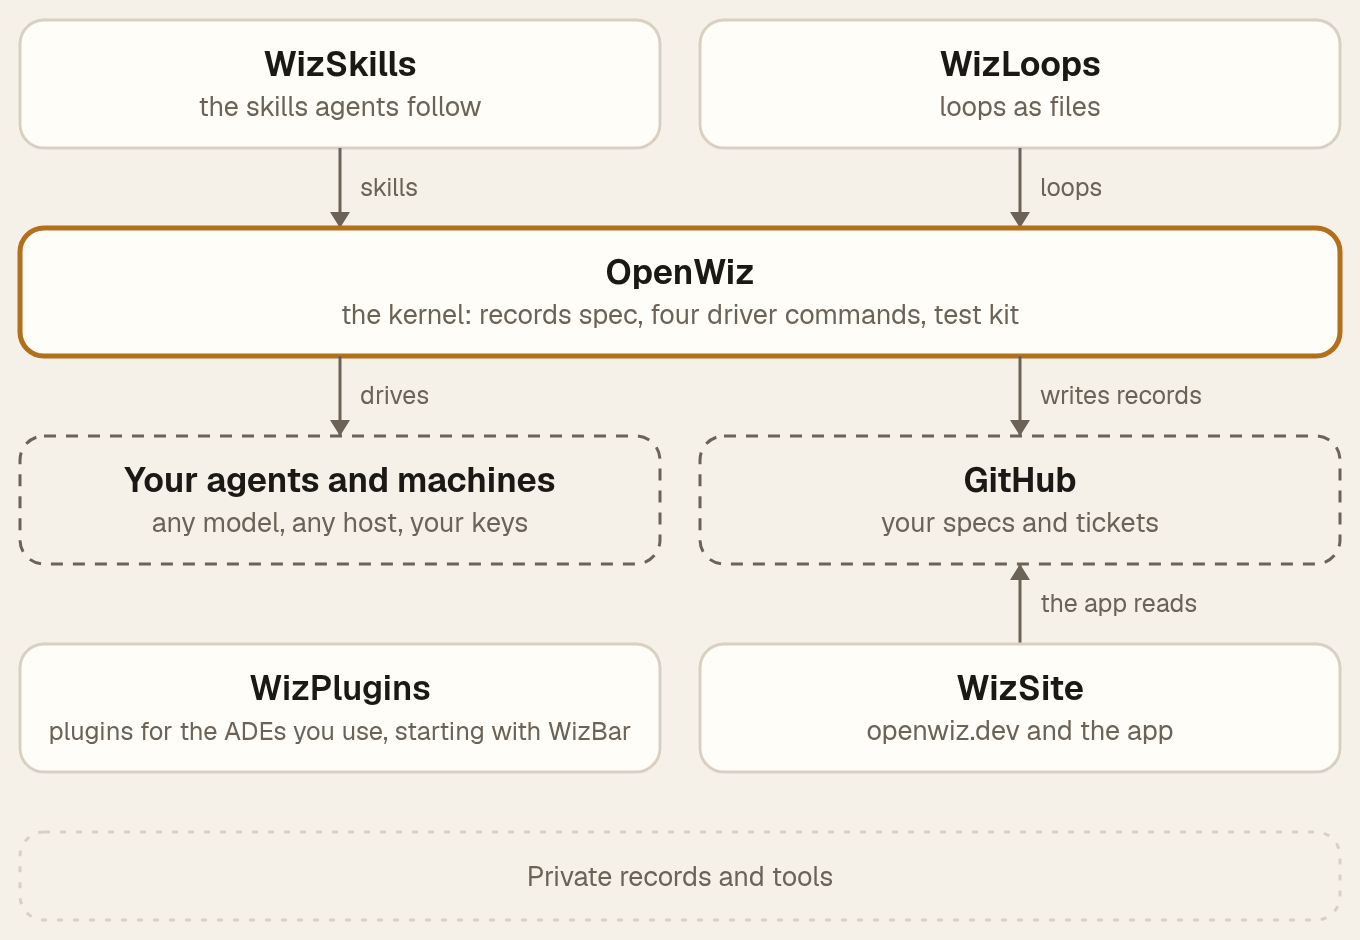
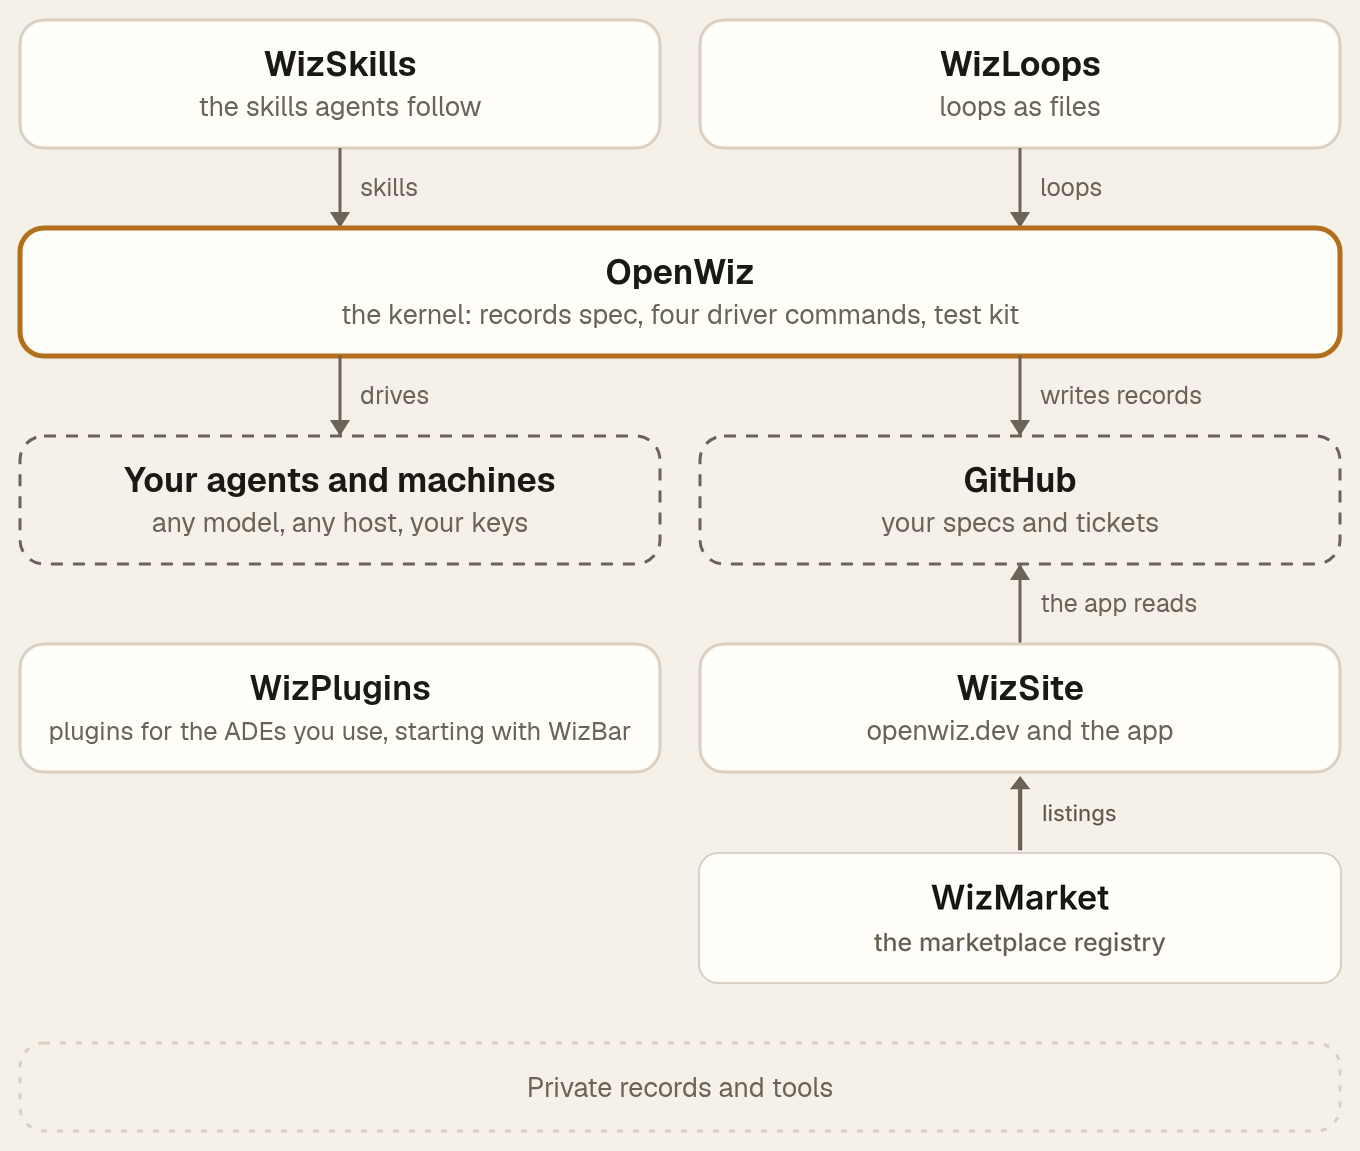
Add WizMarket to the profile map and name every public repository
The map and its alt text left WizMarket out. Both pictures now show
its listings feeding WizSite, and the table names every public
repository.

OpenWiz#3112

diff --git a/profile/README.md b/profile/README.md
@@ -23,7 +23,7 @@ The kernel is small: records on GitHub, four driver commands (`version`, `start`
 
 <picture>
   <source media="(prefers-color-scheme: dark)" srcset="https://raw.githubusercontent.com/openwizdev/.github/main/profile/art/map-dark.png">
-  <img alt="How the repos fit: WizSkills and WizLoops feed OpenWiz, the kernel. OpenWiz drives your agents and machines and writes records to GitHub. WizSite's app reads GitHub. WizPlugins holds plugins for the ADEs you use, starting with WizBar. Private records and tools sit apart." src="https://raw.githubusercontent.com/openwizdev/.github/main/profile/art/map-light.png" width="680">
+  <img alt="How the repos fit: WizSkills and WizLoops feed OpenWiz, the kernel. OpenWiz drives your agents and machines and writes records to GitHub. WizSite's app reads GitHub, and WizMarket's listings feed that site. WizPlugins holds plugins for the ADEs you use, starting with WizBar. Private records and tools sit apart." src="https://raw.githubusercontent.com/openwizdev/.github/main/profile/art/map-light.png" width="680">
 </picture>
 
 | Repo | What it is | Licence |
@@ -34,5 +34,8 @@ The kernel is small: records on GitHub, four driver commands (`version`, `start`
 | [WizSite](https://github.com/openwizdev/WizSite) | [openwiz.dev](https://openwiz.dev) and the app that shows your factory | Apache-2.0 |
 | [WizMarket](https://github.com/openwizdev/WizMarket) | The OpenWiz marketplace registry: one small file per listing, added by pull request | Apache-2.0 |
 | [WizPlugins](https://github.com/openwizdev/WizPlugins) | Plugins for the ADEs you use, starting with WizBar | MIT |
+| [todo-demo](https://github.com/openwizdev/todo-demo) | A to-do app an OpenWiz fleet built, the demo behind openwiz.dev | no licence file |
+| [marketplace](https://github.com/openwizdev/marketplace) | Fork of the BB plugin registry | no licence file |
+| [.github](https://github.com/openwizdev/.github) | This org profile, and the default security policy | Apache-2.0 |
 
 [openwiz.dev](https://openwiz.dev) · [What is OpenWiz?](https://openwiz.dev/what-is-openwiz/) · [the app](https://openwiz.dev/app) · [WizMarket](https://openwiz.dev/market) · [Changelog](https://openwiz.dev/changelog/) · [X @openwiz](https://x.com/openwiz)
